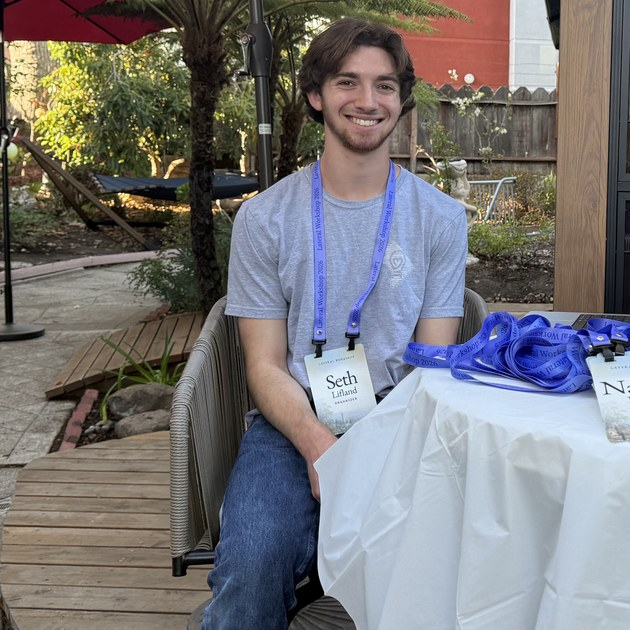
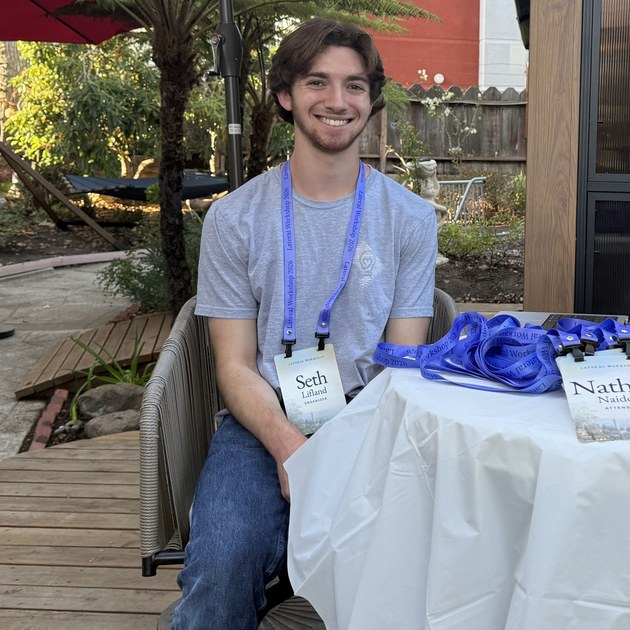
Open lower popups upward, fix kayak width, Hasna landscape, recentre Seth
The screenplay and cat popups opened downward from paragraphs near the
foot of the page, so they ran under the fixed nav bar. They now open
upward like the friends and hobbies popups.

kayak kept a fixed 300px width against a 280px image, leaving a dead
strip on the right; it shrink-wraps now, as Lateral already does.

Hasna's thumb is the full landscape frame rather than a square crop, and
Seth's square is shifted right so he sits centred in it.

diff --git a/index.html b/index.html
@@ -88,15 +88,15 @@
               <p style="position: relative; margin: 0; font-family: Garamond, 'EB Garamond', 'Adobe Garamond Pro', Georgia, serif; font-size: 16px; line-height: 1.5; color: #2a1210; text-wrap: pretty">hi, i'm Afitab (or Afi, and sometimes, Tab). i'm a <a href="https://generatorresidency.org" target="_blank" rel="noopener" style="color: inherit; text-decoration: none;">Generator Resident</a>, and i'm currently working with the Convening team @&nbsp;<a href="https://constellation.org" target="_blank" rel="noopener" style="color: inherit; text-decoration: none;">Constellation</a>! previously, i worked as a generalist @&nbsp;<a href="https://nightingalecollective.org" target="_blank" rel="noopener" style="color: inherit; text-decoration: none;">Nightingale Collective</a> and led <span data-pop="aisa" onMouseEnter="{{ hoverAISA }}" onMouseLeave="{{ leaveAISA }}"><a href="https://buaisa.org" target="_blank" rel="noopener" style="color: inherit; text-decoration: none; border-bottom-width: 1px; border-bottom-style: solid; border-bottom-color: rgba(28, 14, 12, 0.35);">AISA</a><span aria-hidden="true" style="font-size: 11px; color: #b21a22; vertical-align: super; line-height: 0; margin-left: 1px">↺</span><sc-if value="{{ peekAISA }}" hint-placeholder-val="{{ false }}"><span style="position: absolute; left: 50%; transform: translateX(-50%); top: calc(100% + 12px); z-index: 30; width: 560px; max-width: 78vw; padding: 8px; background: #fff8f7; box-shadow: 0 14px 34px rgba(42,18,16,0.3); display: flex; flex-direction: column; gap: 7px"><span class="pop-strip" style="display: flex; gap: 8px; overflow-x: auto; overflow-y: hidden; padding-bottom: 4px"><img src="thumbs/2J3A0486.jpg" alt="Tabling with AISA posters in the incubator lobby" style="height: 210px; width: auto; flex: none; display: block" decoding="async"><img src="thumbs/IMG_9028.jpg" alt="AISA at Splash with safe AI posters" style="height: 210px; width: auto; flex: none; display: block" decoding="async"><img src="thumbs/IMG_9083.jpg" alt="Talk on single-digit addition circuits to a packed room" style="height: 210px; width: auto; flex: none; display: block" decoding="async"><img src="thumbs/jbpresent.jpg" alt="Poster session on color representations in LLMs" style="height: 210px; width: auto; flex: none; display: block" decoding="async"><img src="thumbs/technicalgroup.jpg" alt="The technical research group after a session" style="height: 210px; width: auto; flex: none; display: block" decoding="async"></span><span style="font-family: Garamond, 'EB Garamond', 'Adobe Garamond Pro', Georgia, serif; font-size: 11px; letter-spacing: 0.1em; text-transform: uppercase; color: #7d0f14">buaisa.org</span><span aria-hidden="true" style="position: absolute; right: 10px; top: 100px; width: 26px; height: 26px; display: flex; align-items: center; justify-content: center; font-family: ui-monospace, monospace; font-size: 17px; font-weight: 700; color: #b21a22; background: rgba(255,248,247,0.85); border-radius: 50%; box-shadow: 0 1px 4px rgba(42,18,16,0.25); pointer-events: none">&#8250;</span></span></sc-if></span> @&nbsp;Boston University.</p>
               <p style="position: relative; margin: 0; font-family: Garamond, 'EB Garamond', 'Adobe Garamond Pro', Georgia, serif; font-size: 16px; line-height: 1.65; color: #1c0e0c; text-wrap: pretty">recently, i helped organize <span data-pop="lateral" style="position: relative" onMouseEnter="{{ hoverLateral }}" onMouseLeave="{{ leaveLateral }}"><span role="button" tabindex="0" onClick="{{ toggleLateral }}" style="cursor: pointer; border-bottom: 1px dotted rgba(178,26,34,0.65)">Lateral Workshop</span><span aria-hidden="true" style="font-size: 11px; color: #b21a22; vertical-align: super; line-height: 0; margin-left: 1px">↺</span><sc-if value="{{ openLateral }}" hint-placeholder-val="{{ false }}"><span style="position: absolute; left: 0; top: calc(100% + 12px); z-index: 30; max-width: 78vw; padding: 8px; background: #fff8f7; box-shadow: 0 14px 34px rgba(42,18,16,0.3); display: flex; flex-direction: column; gap: 7px"><span class="pop-strip" style="display: flex; gap: 8px; overflow-x: auto; overflow-y: hidden; padding-bottom: 4px"><img src="thumbs/lateral-1.jpg" alt="Lateral Workshop group photo under the shade sail" style="height: 210px; width: auto; flex: none; display: block" decoding="async"></span><a href="https://lateralworkshop.org" target="_blank" rel="noopener" style="font-family: Garamond, 'EB Garamond', 'Adobe Garamond Pro', Georgia, serif; font-size: 11px; letter-spacing: 0.1em; text-transform: uppercase; color: #7d0f14; text-decoration: none">lateralworkshop.org</a></span></sc-if></span> with Jacob Brinton and Seth Lifland, ran the <span data-pop="party" onMouseEnter="{{ hoverParty }}" onMouseLeave="{{ leaveParty }}"><span role="button" tabindex="0" onClick="{{ toggleParty }}" style="cursor: pointer; border-bottom: 1px dotted rgba(178,26,34,0.65)">AI 2040 Plan A Launch Party</span><span aria-hidden="true" style="font-size: 11px; color: #b21a22; vertical-align: super; line-height: 0; margin-left: 1px">↺</span><sc-if value="{{ openParty }}" hint-placeholder-val="{{ false }}"><span style="position: absolute; left: 50%; transform: translateX(-50%); top: calc(100% + 12px); z-index: 30; width: 560px; max-width: 78vw; padding: 8px; background: #fff8f7; box-shadow: 0 14px 34px rgba(42,18,16,0.3); display: flex; flex-direction: column; gap: 7px"><span class="pop-strip" style="display: flex; gap: 8px; overflow-x: auto; overflow-y: hidden; padding-bottom: 4px"><img src="thumbs/_A004375.jpg" alt="Someone holding the AI 2040 Plan A poster" style="height: 210px; width: auto; flex: none; display: block" decoding="async"><img src="thumbs/_A004359.jpg" alt="Guests under the pressed-tin ceiling" style="height: 210px; width: auto; flex: none; display: block" decoding="async"><img src="thumbs/_A004363.jpg" alt="Check in here sign at the door" style="height: 210px; width: auto; flex: none; display: block" decoding="async"><img src="thumbs/_A004362.jpg" alt="The main room filling up" style="height: 210px; width: auto; flex: none; display: block" decoding="async"><img src="thumbs/_A004360.jpg" alt="Argue with the Authors sign on the blue wall" style="height: 210px; width: auto; flex: none; display: block" decoding="async"><img src="thumbs/_A004372.jpg" alt="Conversations in the lounge" style="height: 210px; width: auto; flex: none; display: block" decoding="async"></span><span style="font-family: Garamond, 'EB Garamond', 'Adobe Garamond Pro', Georgia, serif; font-size: 11px; letter-spacing: 0.1em; text-transform: uppercase; color: #7d0f14">taken by Carolanne Jiang</span><span aria-hidden="true" style="position: absolute; right: 10px; top: 100px; width: 26px; height: 26px; display: flex; align-items: center; justify-content: center; font-family: ui-monospace, monospace; font-size: 17px; font-weight: 700; color: #b21a22; background: rgba(255,248,247,0.85); border-radius: 50%; box-shadow: 0 1px 4px rgba(42,18,16,0.25); pointer-events: none">&#8250;</span></span></sc-if></span> with <a href="https://www.carolannejiang.com" target="_blank" rel="noopener" style="color: inherit; text-decoration: none; border-bottom: 1px solid rgba(28,14,12,0.35)">Carolanne Jiang</a>, and <span data-pop="hike" style="position: relative" onMouseEnter="{{ hoverHike }}" onMouseLeave="{{ leaveHike }}"><span role="button" tabindex="0" onClick="{{ toggleHike }}" style="cursor: pointer; border-bottom: 1px dotted rgba(178,26,34,0.65)">hiked 14km from Sausalito to the Golden Gate Bridge</span><span aria-hidden="true" style="font-size: 11px; color: #b21a22; vertical-align: super; line-height: 0; margin-left: 1px">↺</span><sc-if value="{{ openHike }}" hint-placeholder-val="{{ false }}"><span style="position: absolute; left: 0; top: calc(100% + 12px); z-index: 30; width: 560px; max-width: 78vw; padding: 8px; background: #fff8f7; box-shadow: 0 14px 34px rgba(42,18,16,0.3); display: flex; flex-direction: column; gap: 7px"><span class="pop-strip" style="display: flex; gap: 8px; overflow-x: auto; overflow-y: hidden; padding-bottom: 4px"><img src="thumbs/IMG_6475.jpg" alt="The group heading up the trail in the Marin Headlands" style="height: 210px; width: auto; flex: none; display: block" decoding="async"><img src="thumbs/IMG_6601.jpg" alt="Photographing the surf on the black sand" style="height: 210px; width: auto; flex: none; display: block" decoding="async"><img src="thumbs/IMG_6513_2.jpg" alt="Post-hike Turkish spread from above" style="height: 210px; width: auto; flex: none; display: block" decoding="async"><img src="thumbs/IMG_6468.jpg" alt="Angel Island across the bay from above Sausalito" style="height: 210px; width: auto; flex: none; display: block" decoding="async"><img src="thumbs/IMG_6535.jpg" alt="Around the table at the Turkish restaurant after the hike" style="height: 210px; width: auto; flex: none; display: block" decoding="async"><img src="thumbs/IMG_6635.jpg" alt="Standing on a volcanic spire against blue sky" style="height: 210px; width: auto; flex: none; display: block" decoding="async"><img src="thumbs/IMG_6569.jpg" alt="Red cliffs and black sand below the headlands" style="height: 210px; width: auto; flex: none; display: block" decoding="async"></span><span aria-hidden="true" style="position: absolute; right: 10px; top: 100px; width: 26px; height: 26px; display: flex; align-items: center; justify-content: center; font-family: ui-monospace, monospace; font-size: 17px; font-weight: 700; color: #b21a22; background: rgba(255,248,247,0.85); border-radius: 50%; box-shadow: 0 1px 4px rgba(42,18,16,0.25); pointer-events: none">&#8250;</span></span></sc-if></span>.</p>
               
-              <p style="margin: 0; font-family: Garamond, 'EB Garamond', 'Adobe Garamond Pro', Georgia, serif; font-size: 16px; line-height: 1.65; color: #1c0e0c; text-wrap: pretty">previously, i worked on monitoring and attributing implicit personalization under Dr. Gabriele Sarti @&nbsp;<a href="https://sparai.org" target="_blank" rel="noopener" style="color: inherit; text-decoration: none;">SPAR</a> and evaluated model referrals of mental health cases under Dr. Aaron Mueller @&nbsp;<a href="#" style="color: inherit; text-decoration: none;">BU</a>.</p><p style="margin: 0; font-family: Garamond, 'EB Garamond', 'Adobe Garamond Pro', Georgia, serif; font-size: 16px; line-height: 1.65; color: #1c0e0c; text-wrap: pretty">in past lives, i worked on youth addiction psychology @&nbsp;<a href="https://sites.bu.edu/summitlab/" target="_blank" rel="noopener" style="color: inherit; text-decoration: none;">SUMMIT Lab</a> and studied transnational repression and algorithmic judiciary systems @&nbsp;<a href="https://citlab3.wordpress.com" target="_blank" rel="noopener" style="color: inherit; text-decoration: none;">UCI Citizenship Lab</a>.</p><p style="margin: 0; font-family: Garamond, 'EB Garamond', 'Adobe Garamond Pro', Georgia, serif; font-size: 16px; line-height: 1.65; color: #1c0e0c; text-wrap: pretty">i enjoy reading, writing, <span data-pop="kayak" style="position: relative" onMouseEnter="{{ hoverKayak }}" onMouseLeave="{{ leaveKayak }}"><span role="button" tabindex="0" onClick="{{ toggleKayak }}" style="cursor: pointer; border-bottom: 1px dotted rgba(178,26,34,0.65)">kayaking</span><span aria-hidden="true" style="font-size: 11px; color: #b21a22; vertical-align: super; line-height: 0; margin-left: 1px">↺</span><sc-if value="{{ openKayak }}" hint-placeholder-val="{{ false }}"><span style="position: absolute; left: 0; bottom: calc(100% + 12px); z-index: 30; width: 300px; max-width: 78vw; padding: 8px; background: #fff8f7; box-shadow: 0 14px 34px rgba(42,18,16,0.3); display: flex; flex-direction: column; gap: 7px"><span class="pop-strip" style="display: flex; gap: 8px; overflow-x: auto; overflow-y: hidden; padding-bottom: 4px"><img src="thumbs/kayaking-1.jpg" alt="Paddling a kayak on the Charles River" style="height: 210px; width: auto; flex: none; display: block" decoding="async"></span></span></sc-if></span>, <span data-pop="cook" style="position: relative" onMouseEnter="{{ hoverCook }}" onMouseLeave="{{ leaveCook }}"><span role="button" tabindex="0" onClick="{{ toggleCook }}" style="cursor: pointer; border-bottom: 1px dotted rgba(178,26,34,0.65)">cooking + baking</span><span aria-hidden="true" style="font-size: 11px; color: #b21a22; vertical-align: super; line-height: 0; margin-left: 1px">↺</span><sc-if value="{{ openCook }}" hint-placeholder-val="{{ false }}"><span style="position: absolute; left: 0; bottom: calc(100% + 12px); z-index: 30; width: 560px; max-width: 78vw; padding: 8px; background: #fff8f7; box-shadow: 0 14px 34px rgba(42,18,16,0.3); display: flex; flex-direction: column; gap: 7px"><span class="pop-strip" style="display: flex; gap: 8px; overflow-x: auto; overflow-y: hidden; padding-bottom: 4px"><img src="thumbs/cooking-7.jpg" alt="Homemade dinner spread with spring rolls, hummus and figs" style="height: 210px; width: auto; flex: none; display: block" decoding="async"><img src="thumbs/cooking-8.jpg" alt="Berry dessert cup with graham crumbs" style="height: 210px; width: auto; flex: none; display: block" decoding="async"><img src="thumbs/cooking-1.jpg" alt="Pouring dough into a flour well" style="height: 210px; width: auto; flex: none; display: block" decoding="async"><img src="thumbs/cooking-4.jpg" alt="Frying sucuk on a camp stove" style="height: 210px; width: auto; flex: none; display: block" decoding="async"><img src="thumbs/cooking-5.jpg" alt="Four pans going at once on the stovetop" style="height: 210px; width: auto; flex: none; display: block" decoding="async"><img src="thumbs/cooking-6.jpg" alt="Salmon dinner spread on the table" style="height: 210px; width: auto; flex: none; display: block" decoding="async"></span><span aria-hidden="true" style="position: absolute; right: 10px; top: 100px; width: 26px; height: 26px; display: flex; align-items: center; justify-content: center; font-family: ui-monospace, monospace; font-size: 17px; font-weight: 700; color: #b21a22; background: rgba(255,248,247,0.85); border-radius: 50%; box-shadow: 0 1px 4px rgba(42,18,16,0.25); pointer-events: none">&#8250;</span></span></sc-if></span>, <span data-pop="rock" style="position: relative" onMouseEnter="{{ hoverRock }}" onMouseLeave="{{ leaveRock }}"><span role="button" tabindex="0" onClick="{{ toggleRock }}" style="cursor: pointer; border-bottom: 1px dotted rgba(178,26,34,0.65)">anatolian rock</span><span aria-hidden="true" style="font-size: 11px; color: #b21a22; vertical-align: super; line-height: 0; margin-left: 1px">↺</span><sc-if value="{{ openRock }}" hint-placeholder-val="{{ false }}"><span style="position: absolute; left: 0; bottom: calc(100% + 12px); z-index: 30; width: 560px; max-width: 78vw; padding: 8px; background: #fff8f7; box-shadow: 0 14px 34px rgba(42,18,16,0.3); display: flex; flex-direction: column; gap: 7px"><span class="pop-strip" style="display: flex; gap: 8px; overflow-x: auto; overflow-y: hidden; padding-bottom: 4px"><img src="thumbs/altingun-1.jpg" alt="Fisheye crowd shot at the Altin Gün show" style="height: 210px; width: auto; flex: none; display: block" decoding="async"><img src="thumbs/altingun-2.jpg" alt="Holding the setlist after the show" style="height: 210px; width: auto; flex: none; display: block" decoding="async"><img src="thumbs/altingun-3.jpg" alt="With the band by the stage door" style="height: 210px; width: auto; flex: none; display: block" decoding="async"><img src="thumbs/altingun-4.jpg" alt="Front row under the red lights" style="height: 210px; width: auto; flex: none; display: block" decoding="async"></span><span style="font-family: Garamond, 'EB Garamond', 'Adobe Garamond Pro', Georgia, serif; font-size: 11px; letter-spacing: 0.1em; text-transform: uppercase; color: #7d0f14">Altin Gün Concert, 2023</span><span aria-hidden="true" style="position: absolute; right: 10px; top: 100px; width: 26px; height: 26px; display: flex; align-items: center; justify-content: center; font-family: ui-monospace, monospace; font-size: 17px; font-weight: 700; color: #b21a22; background: rgba(255,248,247,0.85); border-radius: 50%; box-shadow: 0 1px 4px rgba(42,18,16,0.25); pointer-events: none">&#8250;</span></span></sc-if></span>, and making new friends! feel free to reach out to me <a href="mailto:afitabiyigunn@gmail.com" style="color: inherit; text-decoration: none; border-bottom-width: 1px; border-bottom-style: solid; border-bottom-color: rgba(28, 14, 12, 0.35);">here</a>, book a meeting with me <a href="https://cal.com/afitab" target="_blank" rel="noopener" style="color: inherit; text-decoration: none; border-bottom-width: 1px; border-bottom-style: solid; border-bottom-color: rgba(28, 14, 12, 0.35);">here</a>, or leave me anonymous feedback <a href="https://www.admonymous.co/afitab" target="_blank" rel="noopener" style="color: inherit; text-decoration: none; border-bottom-width: 1px; border-bottom-style: solid; border-bottom-color: rgba(28, 14, 12, 0.35);">here</a>!</p>
+              <p style="margin: 0; font-family: Garamond, 'EB Garamond', 'Adobe Garamond Pro', Georgia, serif; font-size: 16px; line-height: 1.65; color: #1c0e0c; text-wrap: pretty">previously, i worked on monitoring and attributing implicit personalization under Dr. Gabriele Sarti @&nbsp;<a href="https://sparai.org" target="_blank" rel="noopener" style="color: inherit; text-decoration: none;">SPAR</a> and evaluated model referrals of mental health cases under Dr. Aaron Mueller @&nbsp;<a href="#" style="color: inherit; text-decoration: none;">BU</a>.</p><p style="margin: 0; font-family: Garamond, 'EB Garamond', 'Adobe Garamond Pro', Georgia, serif; font-size: 16px; line-height: 1.65; color: #1c0e0c; text-wrap: pretty">in past lives, i worked on youth addiction psychology @&nbsp;<a href="https://sites.bu.edu/summitlab/" target="_blank" rel="noopener" style="color: inherit; text-decoration: none;">SUMMIT Lab</a> and studied transnational repression and algorithmic judiciary systems @&nbsp;<a href="https://citlab3.wordpress.com" target="_blank" rel="noopener" style="color: inherit; text-decoration: none;">UCI Citizenship Lab</a>.</p><p style="margin: 0; font-family: Garamond, 'EB Garamond', 'Adobe Garamond Pro', Georgia, serif; font-size: 16px; line-height: 1.65; color: #1c0e0c; text-wrap: pretty">i enjoy reading, writing, <span data-pop="kayak" style="position: relative" onMouseEnter="{{ hoverKayak }}" onMouseLeave="{{ leaveKayak }}"><span role="button" tabindex="0" onClick="{{ toggleKayak }}" style="cursor: pointer; border-bottom: 1px dotted rgba(178,26,34,0.65)">kayaking</span><span aria-hidden="true" style="font-size: 11px; color: #b21a22; vertical-align: super; line-height: 0; margin-left: 1px">↺</span><sc-if value="{{ openKayak }}" hint-placeholder-val="{{ false }}"><span style="position: absolute; left: 0; bottom: calc(100% + 12px); z-index: 30; max-width: 78vw; padding: 8px; background: #fff8f7; box-shadow: 0 14px 34px rgba(42,18,16,0.3); display: flex; flex-direction: column; gap: 7px"><span class="pop-strip" style="display: flex; gap: 8px; overflow-x: auto; overflow-y: hidden; padding-bottom: 4px"><img src="thumbs/kayaking-1.jpg" alt="Paddling a kayak on the Charles River" style="height: 210px; width: auto; flex: none; display: block" decoding="async"></span></span></sc-if></span>, <span data-pop="cook" style="position: relative" onMouseEnter="{{ hoverCook }}" onMouseLeave="{{ leaveCook }}"><span role="button" tabindex="0" onClick="{{ toggleCook }}" style="cursor: pointer; border-bottom: 1px dotted rgba(178,26,34,0.65)">cooking + baking</span><span aria-hidden="true" style="font-size: 11px; color: #b21a22; vertical-align: super; line-height: 0; margin-left: 1px">↺</span><sc-if value="{{ openCook }}" hint-placeholder-val="{{ false }}"><span style="position: absolute; left: 0; bottom: calc(100% + 12px); z-index: 30; width: 560px; max-width: 78vw; padding: 8px; background: #fff8f7; box-shadow: 0 14px 34px rgba(42,18,16,0.3); display: flex; flex-direction: column; gap: 7px"><span class="pop-strip" style="display: flex; gap: 8px; overflow-x: auto; overflow-y: hidden; padding-bottom: 4px"><img src="thumbs/cooking-7.jpg" alt="Homemade dinner spread with spring rolls, hummus and figs" style="height: 210px; width: auto; flex: none; display: block" decoding="async"><img src="thumbs/cooking-8.jpg" alt="Berry dessert cup with graham crumbs" style="height: 210px; width: auto; flex: none; display: block" decoding="async"><img src="thumbs/cooking-1.jpg" alt="Pouring dough into a flour well" style="height: 210px; width: auto; flex: none; display: block" decoding="async"><img src="thumbs/cooking-4.jpg" alt="Frying sucuk on a camp stove" style="height: 210px; width: auto; flex: none; display: block" decoding="async"><img src="thumbs/cooking-5.jpg" alt="Four pans going at once on the stovetop" style="height: 210px; width: auto; flex: none; display: block" decoding="async"><img src="thumbs/cooking-6.jpg" alt="Salmon dinner spread on the table" style="height: 210px; width: auto; flex: none; display: block" decoding="async"></span><span aria-hidden="true" style="position: absolute; right: 10px; top: 100px; width: 26px; height: 26px; display: flex; align-items: center; justify-content: center; font-family: ui-monospace, monospace; font-size: 17px; font-weight: 700; color: #b21a22; background: rgba(255,248,247,0.85); border-radius: 50%; box-shadow: 0 1px 4px rgba(42,18,16,0.25); pointer-events: none">&#8250;</span></span></sc-if></span>, <span data-pop="rock" style="position: relative" onMouseEnter="{{ hoverRock }}" onMouseLeave="{{ leaveRock }}"><span role="button" tabindex="0" onClick="{{ toggleRock }}" style="cursor: pointer; border-bottom: 1px dotted rgba(178,26,34,0.65)">anatolian rock</span><span aria-hidden="true" style="font-size: 11px; color: #b21a22; vertical-align: super; line-height: 0; margin-left: 1px">↺</span><sc-if value="{{ openRock }}" hint-placeholder-val="{{ false }}"><span style="position: absolute; left: 0; bottom: calc(100% + 12px); z-index: 30; width: 560px; max-width: 78vw; padding: 8px; background: #fff8f7; box-shadow: 0 14px 34px rgba(42,18,16,0.3); display: flex; flex-direction: column; gap: 7px"><span class="pop-strip" style="display: flex; gap: 8px; overflow-x: auto; overflow-y: hidden; padding-bottom: 4px"><img src="thumbs/altingun-1.jpg" alt="Fisheye crowd shot at the Altin Gün show" style="height: 210px; width: auto; flex: none; display: block" decoding="async"><img src="thumbs/altingun-2.jpg" alt="Holding the setlist after the show" style="height: 210px; width: auto; flex: none; display: block" decoding="async"><img src="thumbs/altingun-3.jpg" alt="With the band by the stage door" style="height: 210px; width: auto; flex: none; display: block" decoding="async"><img src="thumbs/altingun-4.jpg" alt="Front row under the red lights" style="height: 210px; width: auto; flex: none; display: block" decoding="async"></span><span style="font-family: Garamond, 'EB Garamond', 'Adobe Garamond Pro', Georgia, serif; font-size: 11px; letter-spacing: 0.1em; text-transform: uppercase; color: #7d0f14">Altin Gün Concert, 2023</span><span aria-hidden="true" style="position: absolute; right: 10px; top: 100px; width: 26px; height: 26px; display: flex; align-items: center; justify-content: center; font-family: ui-monospace, monospace; font-size: 17px; font-weight: 700; color: #b21a22; background: rgba(255,248,247,0.85); border-radius: 50%; box-shadow: 0 1px 4px rgba(42,18,16,0.25); pointer-events: none">&#8250;</span></span></sc-if></span>, and making new friends! feel free to reach out to me <a href="mailto:afitabiyigunn@gmail.com" style="color: inherit; text-decoration: none; border-bottom-width: 1px; border-bottom-style: solid; border-bottom-color: rgba(28, 14, 12, 0.35);">here</a>, book a meeting with me <a href="https://cal.com/afitab" target="_blank" rel="noopener" style="color: inherit; text-decoration: none; border-bottom-width: 1px; border-bottom-style: solid; border-bottom-color: rgba(28, 14, 12, 0.35);">here</a>, or leave me anonymous feedback <a href="https://www.admonymous.co/afitab" target="_blank" rel="noopener" style="color: inherit; text-decoration: none; border-bottom-width: 1px; border-bottom-style: solid; border-bottom-color: rgba(28, 14, 12, 0.35);">here</a>!</p>
             </section><figure style="margin: 0; display: flex; flex-direction: column; gap: 9px">
               <img src="uploads/web/IMG_5748.jpg" loading="lazy" alt="Afitab riding below the sunlit cliffs in Zion" style="width: 100%; display: block">
               <figcaption style="font-family: 'fiona', 'forma-djr-banner', 'config-mono-vf', 'DM Mono', ui-monospace, monospace; font-size: 12px; font-weight: 500; letter-spacing: 0.14em; text-transform: uppercase; color: #7d0f14">Sunset at the Zion National Park, January 2026</figcaption>
             </figure>
 
-            <section style="display: flex; flex-direction: column; gap: 22px"><p style="margin: 0; font-family: Garamond, 'EB Garamond', 'Adobe Garamond Pro', Georgia, serif; font-size: 16px; line-height: 1.65; color: #1c0e0c; text-wrap: pretty">here's a photo of my <span data-pop="screenplay" style="position: relative" onMouseEnter="{{ hoverScreenplay }}" onMouseLeave="{{ leaveScreenplay }}"><span role="button" tabindex="0" onClick="{{ toggleScreenplay }}" style="cursor: pointer; border-bottom: 1px dotted rgba(178,26,34,0.65)">favorite screenplay by Ferhan Şensoy</span><span aria-hidden="true" style="font-size: 11px; color: #b21a22; vertical-align: super; line-height: 0; margin-left: 1px">↺</span><sc-if value="{{ openScreenplay }}" hint-placeholder-val="{{ false }}"><span style="position: absolute; left: 0; top: calc(100% + 12px); z-index: 30; max-width: 78vw; padding: 8px; background: #fff8f7; box-shadow: 0 14px 34px rgba(42,18,16,0.3); display: flex; flex-direction: column; gap: 7px"><span class="pop-strip" style="display: flex; gap: 8px; overflow-x: auto; overflow-y: hidden; padding-bottom: 4px"><img src="thumbs/screenplay.jpg" alt="Ferhan Şensoy's play Afitab'ın Kocası İstanbul, propped on a shelf" style="height: 210px; width: auto; flex: none; display: block" decoding="async"></span></span></sc-if></span> (which, unfortunately, never made it to the stage).</p>
+            <section style="display: flex; flex-direction: column; gap: 22px"><p style="margin: 0; font-family: Garamond, 'EB Garamond', 'Adobe Garamond Pro', Georgia, serif; font-size: 16px; line-height: 1.65; color: #1c0e0c; text-wrap: pretty">here's a photo of my <span data-pop="screenplay" style="position: relative" onMouseEnter="{{ hoverScreenplay }}" onMouseLeave="{{ leaveScreenplay }}"><span role="button" tabindex="0" onClick="{{ toggleScreenplay }}" style="cursor: pointer; border-bottom: 1px dotted rgba(178,26,34,0.65)">favorite screenplay by Ferhan Şensoy</span><span aria-hidden="true" style="font-size: 11px; color: #b21a22; vertical-align: super; line-height: 0; margin-left: 1px">↺</span><sc-if value="{{ openScreenplay }}" hint-placeholder-val="{{ false }}"><span style="position: absolute; left: 0; bottom: calc(100% + 12px); z-index: 30; max-width: 78vw; padding: 8px; background: #fff8f7; box-shadow: 0 14px 34px rgba(42,18,16,0.3); display: flex; flex-direction: column; gap: 7px"><span class="pop-strip" style="display: flex; gap: 8px; overflow-x: auto; overflow-y: hidden; padding-bottom: 4px"><img src="thumbs/screenplay.jpg" alt="Ferhan Şensoy's play Afitab'ın Kocası İstanbul, propped on a shelf" style="height: 210px; width: auto; flex: none; display: block" decoding="async"></span></span></sc-if></span> (which, unfortunately, never made it to the stage).</p>
 
-            <p style="margin: 0; font-family: Garamond, 'EB Garamond', 'Adobe Garamond Pro', Georgia, serif; font-size: 16px; line-height: 1.65; color: #1c0e0c; text-wrap: pretty">here're my cats, <span data-pop="gofret" style="position: relative" onMouseEnter="{{ hoverGofret }}" onMouseLeave="{{ leaveGofret }}"><span role="button" tabindex="0" onClick="{{ toggleGofret }}" style="cursor: pointer; border-bottom: 1px dotted rgba(178,26,34,0.65)">Gofret</span><span aria-hidden="true" style="font-size: 11px; color: #b21a22; vertical-align: super; line-height: 0; margin-left: 1px">↺</span><sc-if value="{{ openGofret }}" hint-placeholder-val="{{ false }}"><span style="position: absolute; left: 0; top: calc(100% + 12px); z-index: 30; max-width: 78vw; padding: 8px; background: #fff8f7; box-shadow: 0 14px 34px rgba(42,18,16,0.3); display: flex; flex-direction: column; gap: 7px"><span class="pop-strip" style="display: flex; gap: 8px; overflow-x: auto; overflow-y: hidden; padding-bottom: 4px"><img src="thumbs/cats-1.jpg" alt="Gofret trying on yellow sunglasses" style="height: 210px; width: auto; flex: none; display: block" decoding="async"></span></span></sc-if></span> and <span data-pop="lokum" style="position: relative" onMouseEnter="{{ hoverLokum }}" onMouseLeave="{{ leaveLokum }}"><span role="button" tabindex="0" onClick="{{ toggleLokum }}" style="cursor: pointer; border-bottom: 1px dotted rgba(178,26,34,0.65)">Lokum</span><span aria-hidden="true" style="font-size: 11px; color: #b21a22; vertical-align: super; line-height: 0; margin-left: 1px">↺</span><sc-if value="{{ openLokum }}" hint-placeholder-val="{{ false }}"><span style="position: absolute; left: 0; top: calc(100% + 12px); z-index: 30; max-width: 78vw; padding: 8px; background: #fff8f7; box-shadow: 0 14px 34px rgba(42,18,16,0.3); display: flex; flex-direction: column; gap: 7px"><span class="pop-strip" style="display: flex; gap: 8px; overflow-x: auto; overflow-y: hidden; padding-bottom: 4px"><img src="thumbs/cats-2.jpg" alt="Lokum mid-meow on the bed" style="height: 210px; width: auto; flex: none; display: block" decoding="async"></span></span></sc-if></span>.</p>
+            <p style="margin: 0; font-family: Garamond, 'EB Garamond', 'Adobe Garamond Pro', Georgia, serif; font-size: 16px; line-height: 1.65; color: #1c0e0c; text-wrap: pretty">here're my cats, <span data-pop="gofret" style="position: relative" onMouseEnter="{{ hoverGofret }}" onMouseLeave="{{ leaveGofret }}"><span role="button" tabindex="0" onClick="{{ toggleGofret }}" style="cursor: pointer; border-bottom: 1px dotted rgba(178,26,34,0.65)">Gofret</span><span aria-hidden="true" style="font-size: 11px; color: #b21a22; vertical-align: super; line-height: 0; margin-left: 1px">↺</span><sc-if value="{{ openGofret }}" hint-placeholder-val="{{ false }}"><span style="position: absolute; left: 0; bottom: calc(100% + 12px); z-index: 30; max-width: 78vw; padding: 8px; background: #fff8f7; box-shadow: 0 14px 34px rgba(42,18,16,0.3); display: flex; flex-direction: column; gap: 7px"><span class="pop-strip" style="display: flex; gap: 8px; overflow-x: auto; overflow-y: hidden; padding-bottom: 4px"><img src="thumbs/cats-1.jpg" alt="Gofret trying on yellow sunglasses" style="height: 210px; width: auto; flex: none; display: block" decoding="async"></span></span></sc-if></span> and <span data-pop="lokum" style="position: relative" onMouseEnter="{{ hoverLokum }}" onMouseLeave="{{ leaveLokum }}"><span role="button" tabindex="0" onClick="{{ toggleLokum }}" style="cursor: pointer; border-bottom: 1px dotted rgba(178,26,34,0.65)">Lokum</span><span aria-hidden="true" style="font-size: 11px; color: #b21a22; vertical-align: super; line-height: 0; margin-left: 1px">↺</span><sc-if value="{{ openLokum }}" hint-placeholder-val="{{ false }}"><span style="position: absolute; left: 0; bottom: calc(100% + 12px); z-index: 30; max-width: 78vw; padding: 8px; background: #fff8f7; box-shadow: 0 14px 34px rgba(42,18,16,0.3); display: flex; flex-direction: column; gap: 7px"><span class="pop-strip" style="display: flex; gap: 8px; overflow-x: auto; overflow-y: hidden; padding-bottom: 4px"><img src="thumbs/cats-2.jpg" alt="Lokum mid-meow on the bed" style="height: 210px; width: auto; flex: none; display: block" decoding="async"></span></span></sc-if></span>.</p>
 
             <p style="margin: 0; font-family: Garamond, 'EB Garamond', 'Adobe Garamond Pro', Georgia, serif; font-size: 16px; line-height: 1.65; color: #1c0e0c; text-wrap: pretty">here're some of my best friends: <span data-pop="dilara" style="position: relative" onMouseEnter="{{ hoverDilara }}" onMouseLeave="{{ leaveDilara }}"><span role="button" tabindex="0" onClick="{{ toggleDilara }}" style="cursor: pointer; border-bottom: 1px dotted rgba(178,26,34,0.65)">Dilara</span><span aria-hidden="true" style="font-size: 11px; color: #b21a22; vertical-align: super; line-height: 0; margin-left: 1px">↺</span><sc-if value="{{ openDilara }}" hint-placeholder-val="{{ false }}"><span style="position: absolute; left: 0; bottom: calc(100% + 12px); z-index: 30; max-width: 78vw; padding: 8px; background: #fff8f7; box-shadow: 0 14px 34px rgba(42,18,16,0.3); display: flex; flex-direction: column; gap: 7px"><span class="pop-strip" style="display: flex; gap: 8px; overflow-x: auto; overflow-y: hidden; padding-bottom: 4px"><img src="thumbs/friend-dilara.jpg" alt="Dilara" style="height: 210px; aspect-ratio: 1 / 1; object-fit: cover; object-position: center; flex: none; display: block" decoding="async"></span></span></sc-if></span>, <span data-pop="jacob" style="position: relative" onMouseEnter="{{ hoverJacob }}" onMouseLeave="{{ leaveJacob }}"><span role="button" tabindex="0" onClick="{{ toggleJacob }}" style="cursor: pointer; border-bottom: 1px dotted rgba(178,26,34,0.65)">Jayk</span><span aria-hidden="true" style="font-size: 11px; color: #b21a22; vertical-align: super; line-height: 0; margin-left: 1px">↺</span><sc-if value="{{ openJacob }}" hint-placeholder-val="{{ false }}"><span style="position: absolute; left: 0; bottom: calc(100% + 12px); z-index: 30; max-width: 78vw; padding: 8px; background: #fff8f7; box-shadow: 0 14px 34px rgba(42,18,16,0.3); display: flex; flex-direction: column; gap: 7px"><span class="pop-strip" style="display: flex; gap: 8px; overflow-x: auto; overflow-y: hidden; padding-bottom: 4px"><img src="thumbs/friend-jacob.jpg" alt="Jayk" style="height: 210px; width: auto; flex: none; display: block" decoding="async"></span></span></sc-if></span>, <span data-pop="hasna" style="position: relative" onMouseEnter="{{ hoverHasna }}" onMouseLeave="{{ leaveHasna }}"><span role="button" tabindex="0" onClick="{{ toggleHasna }}" style="cursor: pointer; border-bottom: 1px dotted rgba(178,26,34,0.65)">Hasna</span><span aria-hidden="true" style="font-size: 11px; color: #b21a22; vertical-align: super; line-height: 0; margin-left: 1px">↺</span><sc-if value="{{ openHasna }}" hint-placeholder-val="{{ false }}"><span style="position: absolute; left: 0; bottom: calc(100% + 12px); z-index: 30; max-width: 78vw; padding: 8px; background: #fff8f7; box-shadow: 0 14px 34px rgba(42,18,16,0.3); display: flex; flex-direction: column; gap: 7px"><span class="pop-strip" style="display: flex; gap: 8px; overflow-x: auto; overflow-y: hidden; padding-bottom: 4px"><img src="thumbs/friend-hasna.jpg" alt="Hasna" style="height: 210px; width: auto; flex: none; display: block" decoding="async"></span></span></sc-if></span>, <span data-pop="stanley" style="position: relative" onMouseEnter="{{ hoverStanley }}" onMouseLeave="{{ leaveStanley }}"><span role="button" tabindex="0" onClick="{{ toggleStanley }}" style="cursor: pointer; border-bottom: 1px dotted rgba(178,26,34,0.65)">Stanley</span><span aria-hidden="true" style="font-size: 11px; color: #b21a22; vertical-align: super; line-height: 0; margin-left: 1px">↺</span><sc-if value="{{ openStanley }}" hint-placeholder-val="{{ false }}"><span style="position: absolute; left: 0; bottom: calc(100% + 12px); z-index: 30; max-width: 78vw; padding: 8px; background: #fff8f7; box-shadow: 0 14px 34px rgba(42,18,16,0.3); display: flex; flex-direction: column; gap: 7px"><span class="pop-strip" style="display: flex; gap: 8px; overflow-x: auto; overflow-y: hidden; padding-bottom: 4px"><img src="thumbs/friend-stanley.jpg" alt="Stanley" style="height: 210px; aspect-ratio: 1 / 1; object-fit: cover; object-position: center; flex: none; display: block" decoding="async"></span></span></sc-if></span>, <span data-pop="seth" style="position: relative" onMouseEnter="{{ hoverSeth }}" onMouseLeave="{{ leaveSeth }}"><span role="button" tabindex="0" onClick="{{ toggleSeth }}" style="cursor: pointer; border-bottom: 1px dotted rgba(178,26,34,0.65)">Seth</span><span aria-hidden="true" style="font-size: 11px; color: #b21a22; vertical-align: super; line-height: 0; margin-left: 1px">↺</span><sc-if value="{{ openSeth }}" hint-placeholder-val="{{ false }}"><span style="position: absolute; left: 0; bottom: calc(100% + 12px); z-index: 30; max-width: 78vw; padding: 8px; background: #fff8f7; box-shadow: 0 14px 34px rgba(42,18,16,0.3); display: flex; flex-direction: column; gap: 7px"><span class="pop-strip" style="display: flex; gap: 8px; overflow-x: auto; overflow-y: hidden; padding-bottom: 4px"><img src="thumbs/friend-seth.jpg" alt="Seth" style="height: 210px; aspect-ratio: 1 / 1; object-fit: cover; object-position: center; flex: none; display: block" decoding="async"></span></span></sc-if></span>, <span data-pop="carolanne" style="position: relative" onMouseEnter="{{ hoverCarolanne }}" onMouseLeave="{{ leaveCarolanne }}"><span role="button" tabindex="0" onClick="{{ toggleCarolanne }}" style="cursor: pointer; border-bottom: 1px dotted rgba(178,26,34,0.65)">Carolanne</span><span aria-hidden="true" style="font-size: 11px; color: #b21a22; vertical-align: super; line-height: 0; margin-left: 1px">↺</span><sc-if value="{{ openCarolanne }}" hint-placeholder-val="{{ false }}"><span style="position: absolute; left: 0; bottom: calc(100% + 12px); z-index: 30; max-width: 78vw; padding: 8px; background: #fff8f7; box-shadow: 0 14px 34px rgba(42,18,16,0.3); display: flex; flex-direction: column; gap: 7px"><span class="pop-strip" style="display: flex; gap: 8px; overflow-x: auto; overflow-y: hidden; padding-bottom: 4px"><img src="thumbs/friend-carolanne.jpg" alt="Carolanne" style="height: 210px; width: auto; flex: none; display: block" decoding="async"></span></span></sc-if></span>, <span data-pop="levent" style="position: relative" onMouseEnter="{{ hoverLevent }}" onMouseLeave="{{ leaveLevent }}"><span role="button" tabindex="0" onClick="{{ toggleLevent }}" style="cursor: pointer; border-bottom: 1px dotted rgba(178,26,34,0.65)">Levent</span><span aria-hidden="true" style="font-size: 11px; color: #b21a22; vertical-align: super; line-height: 0; margin-left: 1px">↺</span><sc-if value="{{ openLevent }}" hint-placeholder-val="{{ false }}"><span style="position: absolute; left: 0; bottom: calc(100% + 12px); z-index: 30; max-width: 78vw; padding: 8px; background: #fff8f7; box-shadow: 0 14px 34px rgba(42,18,16,0.3); display: flex; flex-direction: column; gap: 7px"><span class="pop-strip" style="display: flex; gap: 8px; overflow-x: auto; overflow-y: hidden; padding-bottom: 4px"><img src="thumbs/friend-levent.jpg" alt="Levent" style="height: 210px; width: auto; flex: none; display: block" decoding="async"></span></span></sc-if></span>, Purusha, <span data-pop="manon" style="position: relative" onMouseEnter="{{ hoverManon }}" onMouseLeave="{{ leaveManon }}"><span role="button" tabindex="0" onClick="{{ toggleManon }}" style="cursor: pointer; border-bottom: 1px dotted rgba(178,26,34,0.65)">Manon</span><span aria-hidden="true" style="font-size: 11px; color: #b21a22; vertical-align: super; line-height: 0; margin-left: 1px">↺</span><sc-if value="{{ openManon }}" hint-placeholder-val="{{ false }}"><span style="position: absolute; left: 0; bottom: calc(100% + 12px); z-index: 30; max-width: 78vw; padding: 8px; background: #fff8f7; box-shadow: 0 14px 34px rgba(42,18,16,0.3); display: flex; flex-direction: column; gap: 7px"><span class="pop-strip" style="display: flex; gap: 8px; overflow-x: auto; overflow-y: hidden; padding-bottom: 4px"><img src="thumbs/friend-manon.jpg" alt="Manon" style="height: 210px; aspect-ratio: 1 / 1; object-fit: cover; object-position: center; flex: none; display: block" decoding="async"></span></span></sc-if></span>, Damin, <span data-pop="jesse" style="position: relative" onMouseEnter="{{ hoverJesse }}" onMouseLeave="{{ leaveJesse }}"><span role="button" tabindex="0" onClick="{{ toggleJesse }}" style="cursor: pointer; border-bottom: 1px dotted rgba(178,26,34,0.65)">Jesse</span><span aria-hidden="true" style="font-size: 11px; color: #b21a22; vertical-align: super; line-height: 0; margin-left: 1px">↺</span><sc-if value="{{ openJesse }}" hint-placeholder-val="{{ false }}"><span style="position: absolute; right: 0; bottom: calc(100% + 12px); z-index: 30; max-width: 78vw; padding: 8px; background: #fff8f7; box-shadow: 0 14px 34px rgba(42,18,16,0.3); display: flex; flex-direction: column; gap: 7px"><span class="pop-strip" style="display: flex; gap: 8px; overflow-x: auto; overflow-y: hidden; padding-bottom: 4px"><img src="thumbs/friend-jesse.jpg" alt="Jesse" style="height: 210px; width: auto; flex: none; display: block" decoding="async"></span></span></sc-if></span>, <span data-pop="spencer" style="position: relative" onMouseEnter="{{ hoverSpencer }}" onMouseLeave="{{ leaveSpencer }}"><span role="button" tabindex="0" onClick="{{ toggleSpencer }}" style="cursor: pointer; border-bottom: 1px dotted rgba(178,26,34,0.65)">Spencer</span><span aria-hidden="true" style="font-size: 11px; color: #b21a22; vertical-align: super; line-height: 0; margin-left: 1px">↺</span><sc-if value="{{ openSpencer }}" hint-placeholder-val="{{ false }}"><span style="position: absolute; right: 0; bottom: calc(100% + 12px); z-index: 30; max-width: 78vw; padding: 8px; background: #fff8f7; box-shadow: 0 14px 34px rgba(42,18,16,0.3); display: flex; flex-direction: column; gap: 7px"><span class="pop-strip" style="display: flex; gap: 8px; overflow-x: auto; overflow-y: hidden; padding-bottom: 4px"><img src="thumbs/friend-spencer.jpg" alt="Spencer" style="height: 210px; width: auto; flex: none; display: block" decoding="async"></span></span></sc-if></span>, <span data-pop="rae" style="position: relative" onMouseEnter="{{ hoverRae }}" onMouseLeave="{{ leaveRae }}"><span role="button" tabindex="0" onClick="{{ toggleRae }}" style="cursor: pointer; border-bottom: 1px dotted rgba(178,26,34,0.65)">Rae</span><span aria-hidden="true" style="font-size: 11px; color: #b21a22; vertical-align: super; line-height: 0; margin-left: 1px">↺</span><sc-if value="{{ openRae }}" hint-placeholder-val="{{ false }}"><span style="position: absolute; right: 0; bottom: calc(100% + 12px); z-index: 30; max-width: 78vw; padding: 8px; background: #fff8f7; box-shadow: 0 14px 34px rgba(42,18,16,0.3); display: flex; flex-direction: column; gap: 7px"><span class="pop-strip" style="display: flex; gap: 8px; overflow-x: auto; overflow-y: hidden; padding-bottom: 4px"><img src="thumbs/friend-rae.jpg" alt="Rae" style="height: 210px; width: auto; flex: none; display: block" decoding="async"></span></span></sc-if></span>, Jackie.</p></section>
           </div></div>
